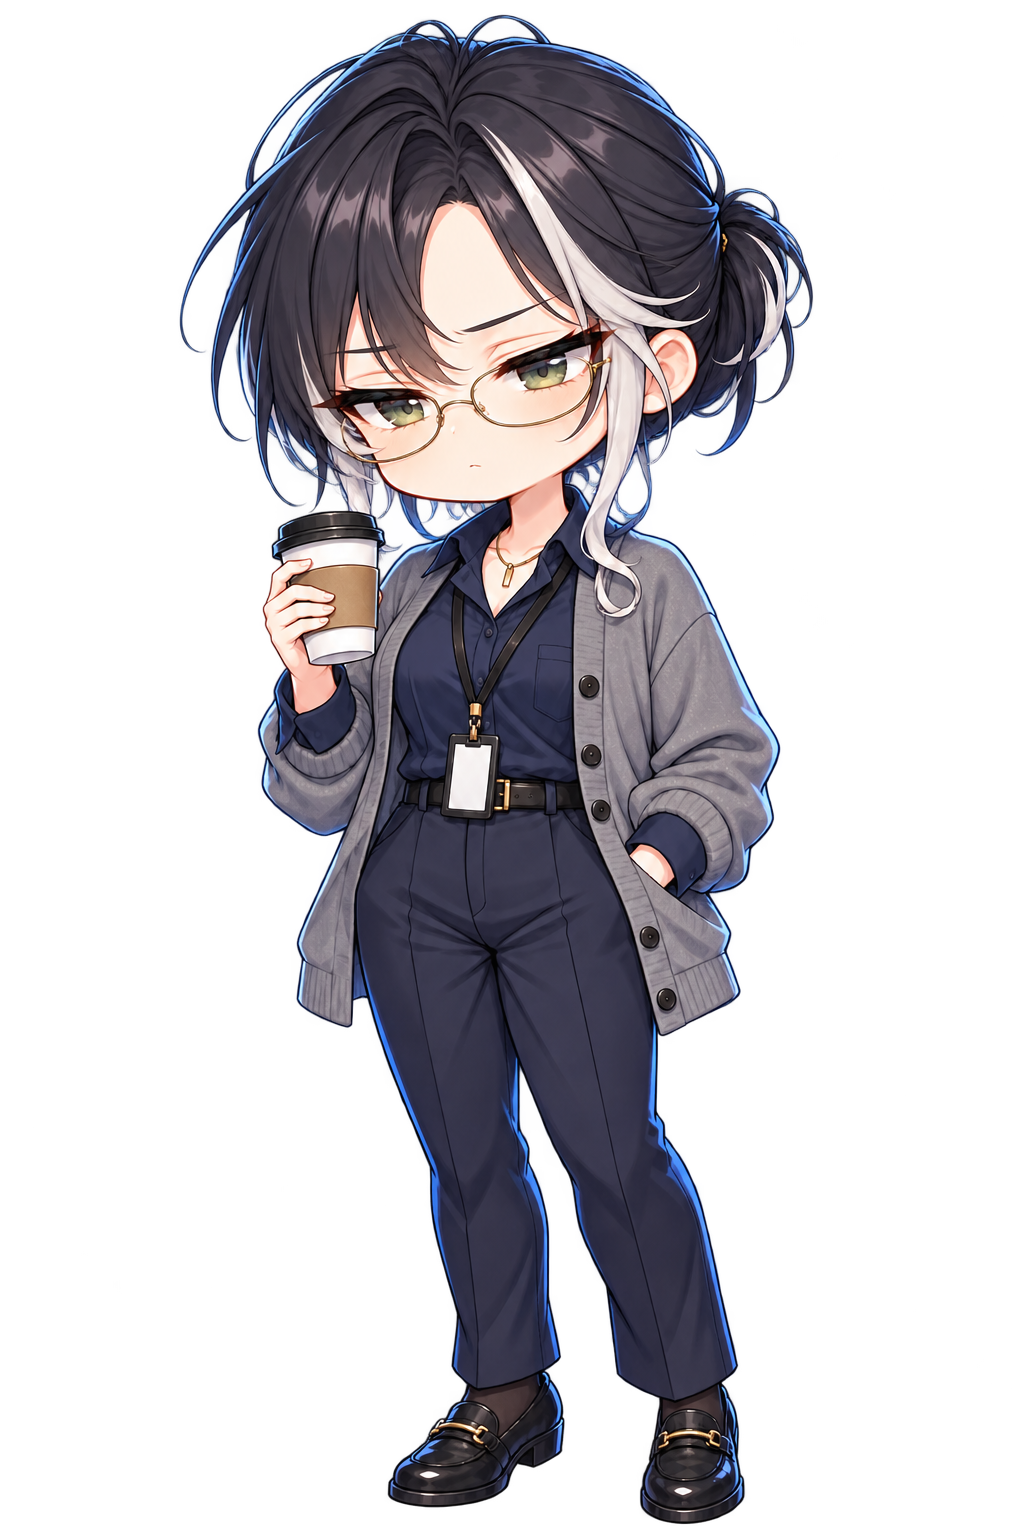
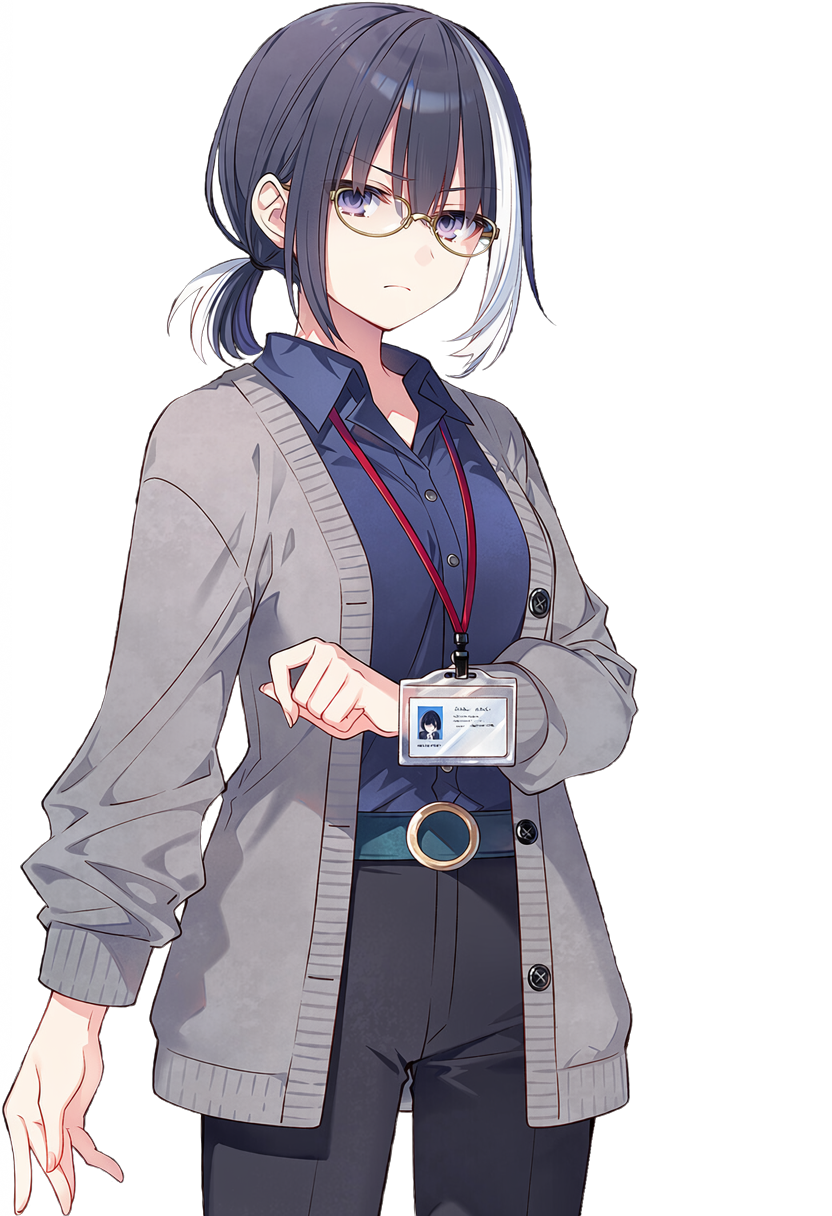
게임에 NAI 그림 연결: 대화·기록의 인물 얼굴을 전용 아이콘으로(스탠딩 자르기 제거), 포즈 차분 설치
Claude-Session: https://claude.ai/code/session_01J9LK3bqysKmVDALVfywPuM

diff --git a/vn.js b/vn.js
@@ -14,9 +14,9 @@ function markScene(id){if(!sceneSet.has(id)){sceneSet.add(id);meta.scenes=[...sc
 const CAST={
  orpheia:{name:'오르페이아',cls:'c-orpheia',stand:{neutral:'orpheia_sd_maid_v2.png',smile:'orpheia_sd_praise_v2.png',worry:'orpheia_sd_worried_v2.png',explain:'orpheia_sd_briefing.png',surprised:['orpheia_sd_surprised.png','orpheia_sd_maid_v2.png'],pout:['orpheia_sd_pout.png','orpheia_sd_worried_v2.png'],shy:['orpheia_sd_shy.png','orpheia_sd_praise_v2.png'],excited:'orpheia_sd_praise_v2.png',casual:['orpheia_sd_casual.png','orpheia_sd_maid_v2.png'],yukata:['orpheia_sd_yukata.png','orpheia_sd_maid_v2.png'],santa:['orpheia_sd_santa.png','orpheia_sd_praise_v2.png'],coat:['orpheia_sd_coat.png','orpheia_sd_maid_v2.png'],suit:['orpheia_sd_suit.png','orpheia_sd_briefing.png'],driver:'orpheia_sd_driver_v2.png',stationmaster:'orpheia_sd_stationmaster_v2.png',engineer:'orpheia_sd_engineer_v2.png',evacuation:'orpheia_sd_evacuation_v2.png'},
   face:{casual:'smile',yukata:'smile',santa:'smile',coat:'neutral',suit:'serious',excited:'smile',driver:'serious',stationmaster:'serious',engineer:'serious',evacuation:'serious',neutral:'neutral',smile:'smile',worry:'worry',explain:'serious',surprised:'serious',pout:'worry',shy:'relief',serious:'serious',resolve:'resolve',relief:'relief'}},
- instructor:{name:'서도희 교관',cls:'c-instructor',stand:{neutral:['chr_instructor_neutral.png',''],stern:['chr_instructor_stern.png',''],smile:['chr_instructor_smile.png',''],coffee:['chr_instructor_coffee.png',''],casual:['chr_instructor_casual.png','chr_instructor_neutral.png']}},
- harin:{name:'유하린',cls:'c-harin',stand:{neutral:['chr_harin_neutral.png',''],smile:['chr_harin_smile.png',''],surprised:['chr_harin_surprised.png',''],pout:['chr_harin_pout.png',''],excited:['chr_harin_excited.png',''],casual:['chr_harin_casual.png','chr_harin_neutral.png'],yukata:['chr_harin_yukata.png','chr_harin_neutral.png']}},
- jian:{name:'류지안',cls:'c-jian',stand:{neutral:['chr_jian_neutral.png',''],smile:['chr_jian_smile.png',''],serious:['chr_jian_serious.png','']}},
+ instructor:{portrait:'face_instructor_neutral.png',name:'서도희 교관',cls:'c-instructor',stand:{neutral:['chr_instructor_neutral.png',''],stern:['chr_instructor_stern.png',''],smile:['chr_instructor_smile.png',''],coffee:['chr_instructor_coffee.png',''],casual:['chr_instructor_casual.png','chr_instructor_neutral.png']}},
+ harin:{portrait:'face_harin_neutral.png',name:'유하린',cls:'c-harin',stand:{neutral:['chr_harin_neutral.png',''],smile:['chr_harin_smile.png',''],surprised:['chr_harin_surprised.png',''],pout:['chr_harin_pout.png',''],excited:['chr_harin_excited.png',''],casual:['chr_harin_casual.png','chr_harin_neutral.png'],yukata:['chr_harin_yukata.png','chr_harin_neutral.png']}},
+ jian:{portrait:'face_jian_neutral.png',name:'류지안',cls:'c-jian',stand:{neutral:['chr_jian_neutral.png',''],smile:['chr_jian_smile.png',''],serious:['chr_jian_serious.png','']}},
  sangcheol:{name:'신상철',cls:'c-player',stand:{}},
 };
 const ALIAS={'오르페이아':'orpheia','서도희':'instructor','서 교관':'instructor','교관':'instructor','서도희 교관':'instructor','하린':'harin','유하린':'harin','상철':'sangcheol','신상철':'sangcheol','류지안':'jian','지안':'jian'};
@@ -161,6 +161,7 @@ function paint(){
  const face=$('#vnFace'),faceKey=l?.who==='orpheia'?(CAST.orpheia.face[l.expr]||'neutral'):'';
  let faceSrc='',crop='';
  if(faceKey&&ART_READY.has(`orpheia_face_${faceKey}.png`))faceSrc=`ui/face_${faceKey}.png`;
+ else if(l?.who&&CAST[l.who]?.portrait)faceSrc=CAST[l.who].portrait;   // 전용 얼굴 아이콘(NAI)
  else if(l?.who&&CAST[l.who]){const f=standFile(l.who,l.expr||S.chars[l.who]?.expr||'neutral');if(f){faceSrc=f;crop=' crop crop-'+l.who;}}
  face.hidden=!faceSrc;face.className='vn-face'+crop;$('#vnName').classList.toggle('has-face',!!faceSrc);
  if(faceSrc){const img=face.querySelector('img');if(img.dataset.f!==faceSrc){img.dataset.f=faceSrc;img.src=asset(faceSrc);}}

diff --git a/ctc-drill.js b/ctc-drill.js
@@ -13,7 +13,8 @@ const CTCDrill=(()=>{
  const pick=(a,seed)=>a[Math.abs(seed)%a.length];
  const hash=s=>[...String(s)].reduce((h,c)=>(h*31+c.charCodeAt(0))|0,7);
  const ACTOR={harin:'하린',jian:'지안',instructor:'서 교수',orpheia:'오르페이아'};
- const FACE={harin:'chr_harin_neutral.png',jian:'chr_jian_neutral.png',instructor:'chr_instructor_neutral.png',
+ const FACE={harin:'face_harin_neutral.png',jian:'face_jian_neutral.png',instructor:'face_instructor_neutral.png',   // 전용 얼굴 아이콘(NAI). 스탠딩을 자르지 않는다
+ 
   orpheia:'ui/face_neutral.png',orpheia_smile:'ui/face_smile.png',orpheia_worry:'ui/face_worry.png',orpheia_serious:'ui/face_serious.png'};
  let el=null,frame=null,W=null,M=null,G=null,onDone=null,tick=0,typer=null,advanceFn=null,toastTimer=0;
  const $=s=>el.querySelector(s);
@@ -243,7 +244,7 @@ const CTCDrill=(()=>{
   const icon=roleFace(who,name,mood);
   if(icon){const wrap=box.querySelector('.ctc-face')||box,img=box.querySelector('img');if(wrap!==box){wrap.className='ctc-face';wrap.style.display='';}img.src=asset(icon);return;}
   const f=who==='orpheia'?FACE['orpheia'+(mood&&mood!=='urgent'?'_'+mood:'')]||FACE.orpheia:FACE[who],wrap=box.querySelector('.ctc-face')||box,img=box.querySelector('img');
-  if(wrap!==box){wrap.className='ctc-face'+(f&&who!=='orpheia'?' crop crop-'+who:'');wrap.style.display=f?'':'none';}
+  if(wrap!==box){wrap.className='ctc-face'+(f&&who!=='orpheia'&&/^chr_/.test(f)?' crop crop-'+who:'');wrap.style.display=f?'':'none';}
   if(f)img.src=asset(f);
  }
  // One line of dialogue; resolves when the player advances.
@@ -390,7 +391,7 @@ const CTCDrill=(()=>{
  const main=()=>$('.dk-main');
  function icon(who,name,mood){
   const role=roleFace(who,name,mood),f=role||(who==='orpheia'?FACE['orpheia'+(mood&&FACE['orpheia_'+mood]?'_'+mood:'')]:FACE[who]);
-  return f?`<span class="dk-face${!role&&who!=='orpheia'?' crop crop-'+who:''}"><img src="${asset(f)}" alt=""></span>`:'<span class="dk-face none">📻</span>';
+  return f?`<span class="dk-face${!role&&who!=='orpheia'&&/^chr_/.test(f)?' crop crop-'+who:''}"><img src="${asset(f)}" alt=""></span>`:'<span class="dk-face none">📻</span>';
  }
  function dkStatus(text,mood=''){$('.dk-status').innerHTML=icon('orpheia','',mood)+`<p>${esc(text)}</p>`;}
  // One radio line as a chat bubble. It types itself and moves on; a click or Space finishes the typing.
